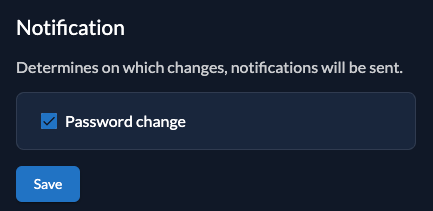
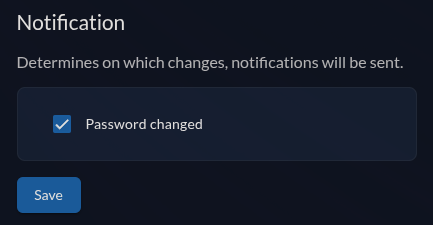
chore: rename password change to password changed (#11323)
# Which Problems Are Solved

Inconsistent naming: https://github.com/zitadel/zitadel/issues/11314

# How the Problems Are Solved

translations are done using gemini

# Additional Changes

# Additional Context

- Closes [#11314](https://github.com/zitadel/zitadel/issues/11314)

diff --git a/docs/docs/self-hosting/manage/service_ping.md b/docs/docs/self-hosting/manage/service_ping.md
@@ -49,7 +49,7 @@ The following resources are counted:
 - Password Complexity Policies
 - Password Expiry Policies
 - Lockout Policies
-- Notification Policies with option "Password change" enabled
+- Notification Policies with option "Password changed" enabled
 
 The list might be extended in the future to include more resources.
 
